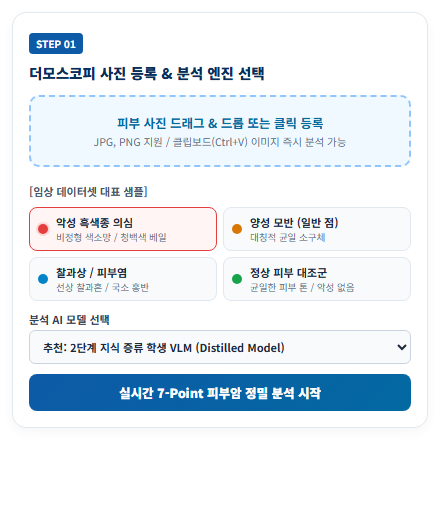
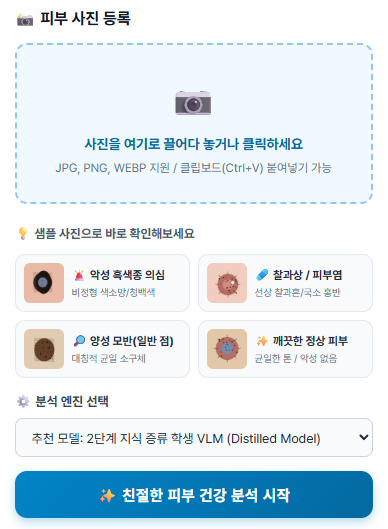
update: sync MelanoCheck UI screenshots and exact text from Slide 10

diff --git a/index.html b/index.html
@@ -1128,6 +1128,7 @@
           </div>
         </article>
         <!-- ======================================================== -->
+        <!-- ======================================================== -->
         <!-- PROJECT 02: 멜라노 체크 (Slide 10)                        -->
         <!-- ======================================================== -->
         <article class="bg-white rounded-3xl p-6 sm:p-10 border border-slate-200 shadow-sm hover:shadow-md transition-shadow mt-8">
@@ -1139,7 +1140,8 @@
             </div>
             <div class="flex flex-wrap items-center gap-2">
               <span class="px-3 py-1.5 bg-blue-100 text-blue-800 font-bold text-xs rounded-lg">지식 증류 VLM</span>
-              <span class="px-3 py-1.5 bg-amber-100 text-amber-800 font-bold text-xs rounded-lg">더모스코피 7-Point</span>
+              <span class="px-3 py-1.5 bg-amber-100 text-amber-800 font-bold text-xs rounded-lg">Mackie 7-Point</span>
+              <span class="px-3 py-1.5 bg-slate-100 text-slate-800 font-bold text-xs rounded-lg">IEEE Access 2025</span>
               <a href="https://ychae22.github.io/skin-cancer-report/" target="_blank" rel="noopener noreferrer" class="px-3.5 py-1.5 bg-brand-blue hover:bg-blue-800 text-white font-bold text-xs rounded-lg flex items-center space-x-1.5 transition-all shadow-sm hover:scale-105">
                 <span>라이브 데모 바로가기</span>
                 <i data-lucide="external-link" class="w-3.5 h-3.5"></i>
@@ -1161,21 +1163,20 @@
               <div>
                 <h4 class="text-xs font-black tracking-widest text-slate-400 uppercase mb-2">TECHNOLOGY</h4>
                 <div class="space-y-1.5 text-xs text-slate-700">
-                  <p><strong class="text-slate-900">AI Engine:</strong> Multimodal VLM (2-Stage Knowledge Distillation), BioMedCLIP (RAG)</p>
-                  <p><strong class="text-slate-900">Clinical Standard:</strong> Mackie 7-Point Checklist (더모스코피 기준)</p>
+                  <p><strong class="text-slate-900">AI Engine:</strong> Multimodal VLM (2-Stage KD), BioMedCLIP (RAG)</p>
                   <p><strong class="text-slate-900">Frontend:</strong> HTML5, CSS3, Vanilla JavaScript (ES6+)</p>
                   <p><strong class="text-slate-900">Deployment:</strong> GitHub Pages (Web Client-Side Standalone Live)</p>
-                  <p><strong class="text-slate-900">Research Base:</strong> IEEE Access Vol. 13 (2025) 논문 구현</p>
+                  <p><strong class="text-slate-900">Research Base:</strong> IEEE Access Vol. 13 (2025) 논문 구현 (Automated Skin Cancer Report Generation via a Knowledge-Distilled Vision-Language Model)</p>
                 </div>
               </div>
 
               <div>
                 <h4 class="text-xs font-black tracking-widest text-slate-400 uppercase mb-2">KEY RESULTS</h4>
                 <ul class="space-y-2 text-xs text-slate-700 list-disc list-inside">
-                  <li><strong>2단계 지식 증류(KD) VLM 경량화:</strong> 거대 비전-언어 모델(VLM)을 경량화하여 웹 클라이언트 환경에서도 고성능 피부 병변 분석 및 리포트 실시간 추론 달성</li>
+                  <li><strong>지식 증류(KD) VLM 경량화:</strong> 거대 비전-언어 모델(VLM)을 경량화하여 클라이언트 환경에서도 고성능 피부 병변 분석 및 리포트 실시간 추론 달성</li>
                   <li><strong>7-Point 체크리스트 자동 정량화:</strong> Major 3종(비정형망·청백색베일·비정형혈관) 및 Minor 4종 특징을 스코어링하여 흑색종 위험군(기준 3점 이상) 정밀 분류</li>
                   <li><strong>환자·의사 3-Tier 멀티모달 UX:</strong> 비전문가를 위한 쉬운 해설·행동 가이드부터 전문의를 위한 표준 임상 소견서(Findings & Biopsy 권고)까지 다층적 정보 제공</li>
-                  <li><strong>웹 브라우저 단독 무설치 배포:</strong> 서버리스 GitHub Pages 환경에서 클립보드 붙여넣기 및 4대 임상 샘플 진단이 가능한 원스톱 웹 서비스 구현</li>
+                  <li><strong>실시간 웹 원스톱 스크리닝:</strong> 클립보드 이미지 붙여넣기 및 4대 대표 임상 샘플(흑색종/모반/찰과상/정상) 기반 실시간 즉시 분석 구현</li>
                 </ul>
               </div>
             </div>
@@ -1195,25 +1196,25 @@
                   <p class="text-[11px] font-bold text-center text-slate-800 mt-2 truncate">[멜라노 체크 공식 로고]</p>
                 </div>
 
-                <div class="img-zoom-container bg-slate-50 p-2.5 rounded-2xl border border-slate-200 shadow-sm" onclick="openLightbox('image18.png', '더모스코피 사진 업로드 및 지식 증류 VLM 선택 UI')">
+                <div class="img-zoom-container bg-slate-50 p-2.5 rounded-2xl border border-slate-200 shadow-sm" onclick="openLightbox('image18.png', '더모스코피 사진 업로드 및 지식 증류 VLM 선택')">
                   <div class="aspect-[4/3] bg-white rounded-xl overflow-hidden flex items-center justify-center">
-                    <img src="image18.png" alt="사진 업로드 & 모델 선택" class="w-full h-full object-contain" onerror="handleImgError(this)" />
+                    <img src="image18.png" alt="더모스코피 사진 업로드" class="w-full h-full object-contain" onerror="handleImgError(this)" />
                   </div>
-                  <p class="text-[11px] font-bold text-center text-slate-800 mt-2 truncate">[더모스코피 사진 등록 & VLM 선택]</p>
+                  <p class="text-[11px] font-bold text-center text-slate-800 mt-2 truncate">[더모스코피 사진 업로드]</p>
                 </div>
 
-                <div class="img-zoom-container bg-slate-50 p-2.5 rounded-2xl border border-slate-200 shadow-sm" onclick="openLightbox('image19.png', '3-Tier 멀티모달 임상 리포트 (환자용 해설 & 의사 소견서)')">
+                <div class="img-zoom-container bg-slate-50 p-2.5 rounded-2xl border border-slate-200 shadow-sm" onclick="openLightbox('image19.png', '멀티모달 임상 리포트: 환자용 해설 & 의사 소견서')">
                   <div class="aspect-[4/3] bg-white rounded-xl overflow-hidden flex items-center justify-center">
-                    <img src="image19.png" alt="3-Tier 임상 리포트" class="w-full h-full object-contain" onerror="handleImgError(this)" />
+                    <img src="image19.png" alt="멀티모달 임상 리포트" class="w-full h-full object-contain" onerror="handleImgError(this)" />
                   </div>
-                  <p class="text-[11px] font-bold text-center text-slate-800 mt-2 truncate">[3-Tier 멀티모달 임상 리포트]</p>
+                  <p class="text-[11px] font-bold text-center text-slate-800 mt-2 truncate">[멀티모달 임상 리포트: 환자용 해설 & 의사 소견서]</p>
                 </div>
 
                 <div class="img-zoom-container bg-slate-50 p-2.5 rounded-2xl border border-slate-200 shadow-sm" onclick="openLightbox('image20.png', 'Mackie 7-Point 기준 기반 피부암 위험도 정량 분석')">
                   <div class="aspect-[4/3] bg-white rounded-xl overflow-hidden flex items-center justify-center">
                     <img src="image20.png" alt="7-Point 정량 분석" class="w-full h-full object-contain" onerror="handleImgError(this)" />
                   </div>
-                  <p class="text-[11px] font-bold text-center text-slate-800 mt-2 truncate">[Mackie 7-Point 정량 분석]</p>
+                  <p class="text-[11px] font-bold text-center text-slate-800 mt-2 truncate">[Mackie 7-Point 기준 기반 위험도 정량 분석]</p>
                 </div>
               </div>
             </div>
